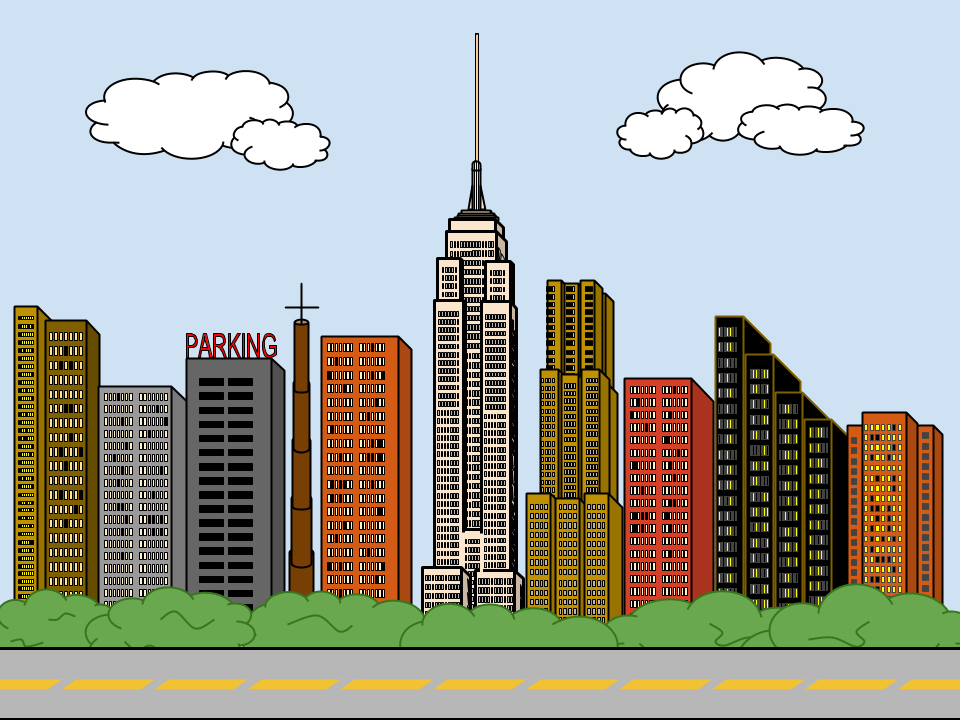
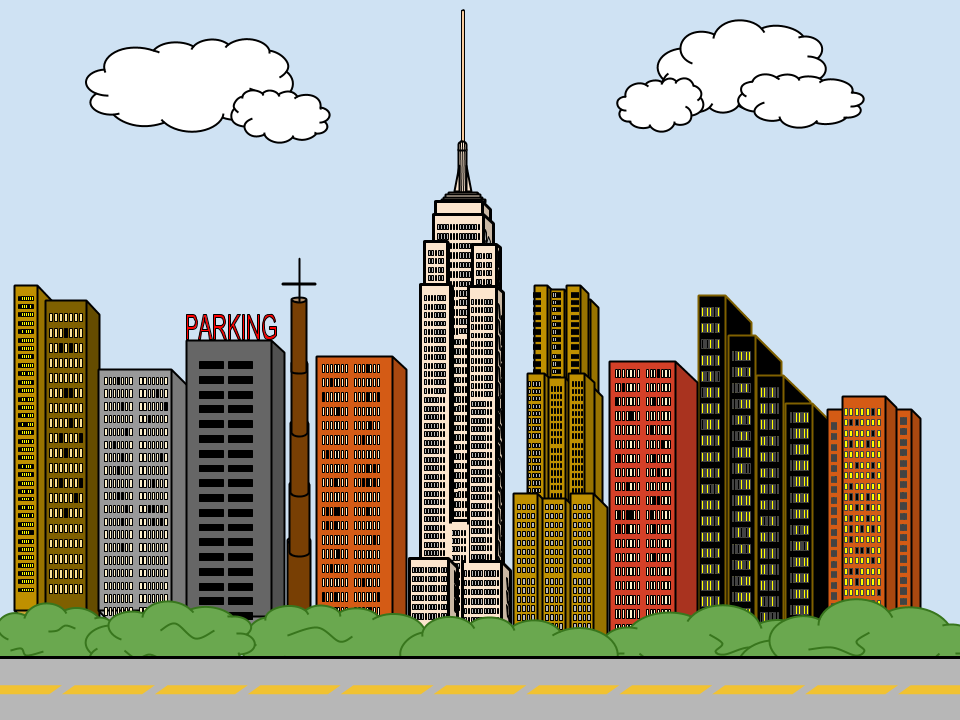
Modified VideoGame file

diff --git a/VideoGame/VideoGame.js b/VideoGame/VideoGame.js
@@ -7,19 +7,6 @@ window.requestAnimFrame = (function (callback) {
 /*
 var canvas = document.getElementById("canvas");
 var ctx = canvas.getContext("2d");
-
-var width = 1000,
-    height = 700,
-    player = {
-      x : width/2,
-      y : height - 5,
-      width : 5,
-      height : 5,
-      speed: 3,                 //controls the height and speed the player jumps
-      velX: 0,
-      velY: 0,
-      jumping: false
-    },
     keys = [],
     friction = 0.8,
     gravity = 0.3;
@@ -95,18 +82,43 @@ window.addEventListener("load",function(){
 
 
 
+
+
+//Key codes for keyboard input
+var enter_key = 13;
+var space_key = 32;
+var up_key = 38;
+var left_key = 37;
+var right_key = 39;
+//letters
+var w_key = 87;
+var a_key = 65;
+var d_key = 68;
+
+//document.onkeydown = handleKeydown;
+//document.onkeyup = handleKeyUp;
+
+
 var stage;
 
 function init() {
     //sets the stage as the ballCanvas
-    stage = new createjs.Stage("canvas");
+    stage = new createjs.Stage(document.getElementById("canvas"));
     stage.mouseMoveOutside = true;
     stage.enableMouseOver(10);
 
-    //makes a basketball bitmap
+    //makes the container move horizontally giving it a scroll effect
+    var scrollImg = new createjs.Container();
     var bckgrd1 = new createjs.Bitmap("images/CityBackground.png");
     bckgrd1.x = 0;
     bckgrd1.y = -10;
+    bckgrd1.scaleX = 1.15;
+
+    var bckgrd2 = bckgrd1.clone();
+    bckgrd2.x = bckgrd2.x - 1085;
+
+    scrollImg.addChild(bckgrd2, bckgrd1);
+
 
     var player = new createjs.Bitmap("images/player.png");
     player.x = 0;
@@ -119,23 +131,23 @@ function init() {
     airplane.y = -250;
 
     //adds the objects made above to the stage
-    stage.addChild(bckgrd1);
+    stage.addChild(scrollImg);
     stage.addChild(player);
     stage.addChild(airplane);
 
-    bckgrd1.addEventListener("tick", function move(){
-        bckgrd1.x = bckgrd1.x + 1;
+    scrollImg.addEventListener("tick", function move() {
+        scrollImg.x = scrollImg.x + 5;
         airplane.x = airplane.x - 10;
-        if(player.x < 800) {
+        if (player.x < 800) {
             player.x = player.x + 5;
         }
     });
 
-    canvas.addEventListener("click", function stop(){
-        bckgrd1.removeAllEventListeners();
+    canvas.addEventListener("click", function stop() {
+        scrollImg.removeAllEventListeners();
     });
 
-    player.addEventListener("pressmove", function move(event){
+    player.addEventListener("pressmove", function move(event) {
         player.x = event.stageX;
         player.y = event.stageY;
         console.log(event.stageX);
@@ -143,6 +155,7 @@ function init() {
     });
 
     createjs.Ticker.addEventListener("tick", tick);
+
 }
 
 function tick() {
